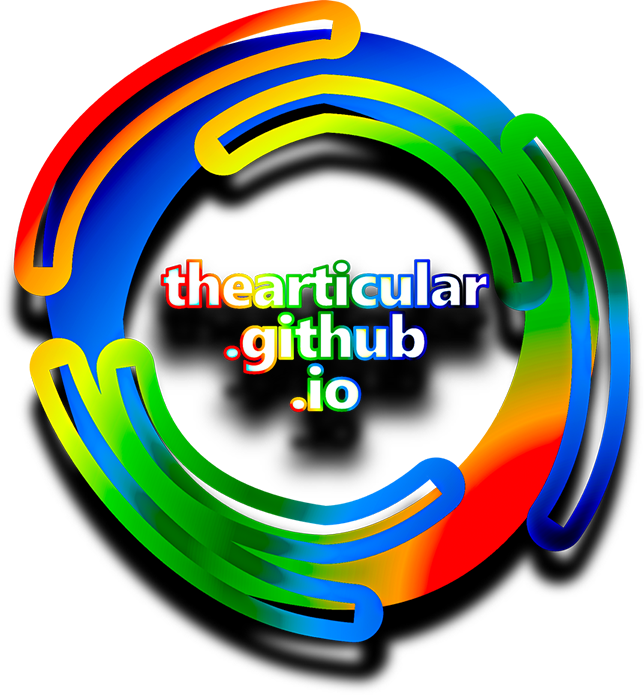
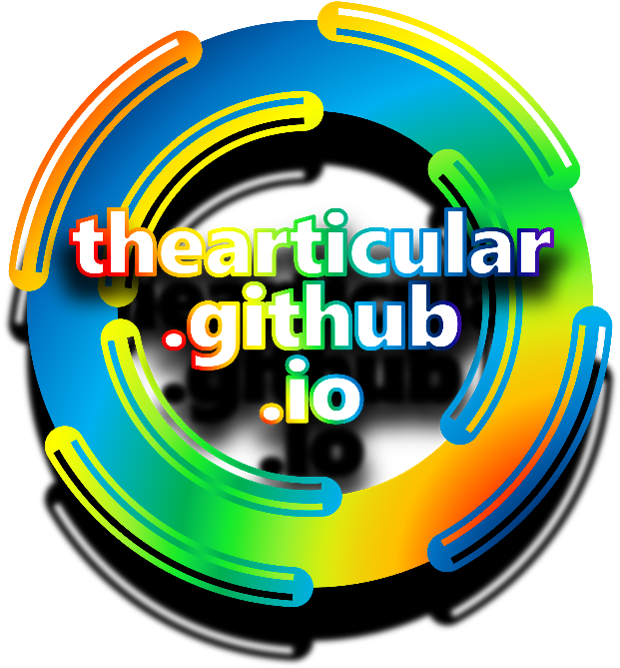
th

diff --git a/index.html b/index.html
@@ -34,7 +34,7 @@
 	<meta property="og:description"
 		content="https://thearticular.github.io">
 	<meta property="og:image"
-		content="https://thearticular.github.io/thearticular/wp-content/uploads/favicon.jpg">
+		content="https://thearticular.github.io/thearticular/wp-content/uploads/wblg.png">
 	<meta property="og:url"
 		content="https://thearticular.github.io">
 	<meta property="og:site_name"
@@ -658,7 +658,7 @@
 											src="thearticular/wp-content/uploads/wblg.png"
 											alt=""
 											class="wp-image-2353"
-											style="width:400px;height:auto; filter: saturate(60%)"
+											style="width:400px;height:auto; filter: saturate(100%)"
 											srcset="thearticular/wp-content/uploads/wblg.png 1024w, thearticular/wp-content/uploads/wblg.png 300w, thearticular/wp-content/uploads/wblg.png 150w, thearticular/wp-content/uploads/wblg.png 768w, thearticular/wp-content/uploads/wblg.png 500w, thearticular/wp-content/uploads/wblg.png 800w, thearticular/wp-content/uploads/wblg.png 1280w, thearticular/wp-content/uploads/wblg.png 1386w"
 											sizes="(max-width: 1024px) 100vw, 1024px" />
 									</figure>
@@ -751,7 +751,8 @@
 												desktop, I plan to upgrade it one day.<br><br><br>
 											</div>
 										</div><br><br><br><br><br><br>
-										<div style="text-align: center; border: 2px solid white; border-radius: 100px; overflow: hidden; display: flex; justify-content: center;">
+										<div
+											style="text-align: center; border: 2px solid white; border-radius: 100px; overflow: hidden; display: flex; justify-content: center;">
 											<iframe width="560"
 												height="100"
 												src="https://www.youtube.com/embed/GWyUO4EPA7M?&vq=small"
@@ -760,7 +761,8 @@
 												allow="accelerometer; autoplay; clipboard-write; encrypted-media; gyroscope; picture-in-picture; web-share"
 												allowfullscreen></iframe>
 										</div><br>
-										<div class="custom-button">Listen to some music meanwhile.<br><br>Credit: Celtic - "CELTIC SOUL" by SolasComposer</div>
+										<div class="custom-button">Listen to some music meanwhile.<br><br>Credit: Celtic
+											- "CELTIC SOUL" by SolasComposer</div>
 										<style>
 											.custom-button {
 												color: #fff;
